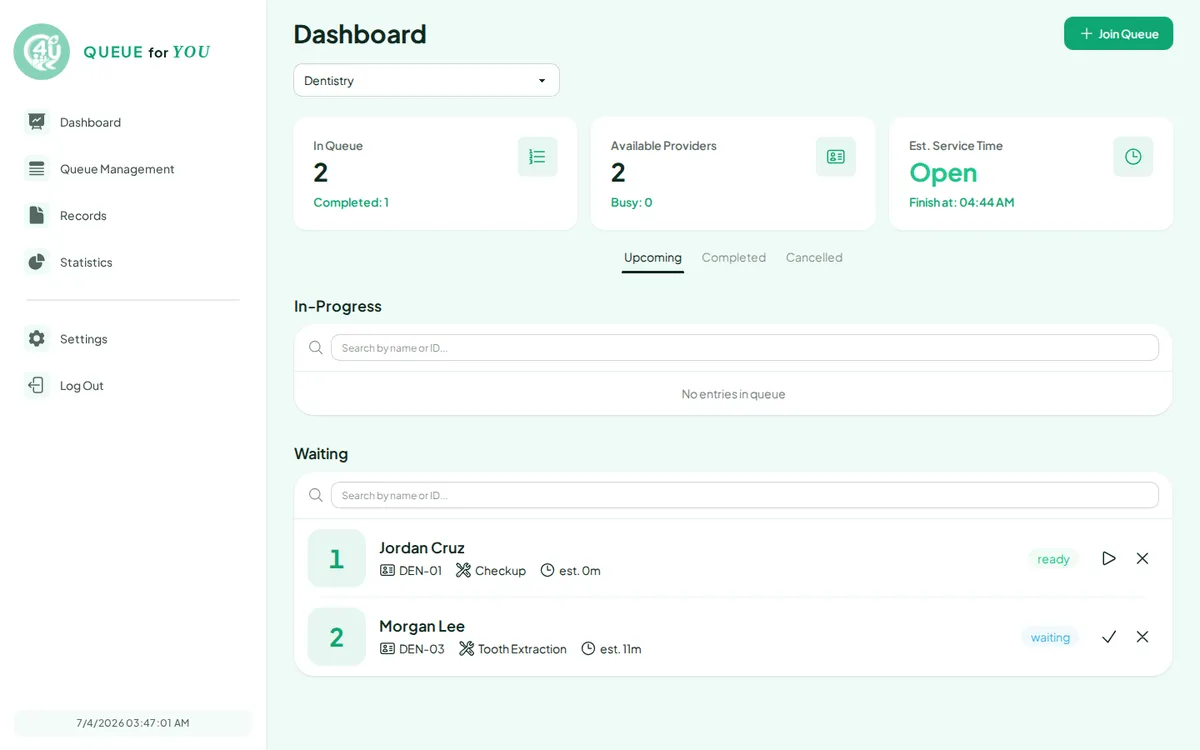
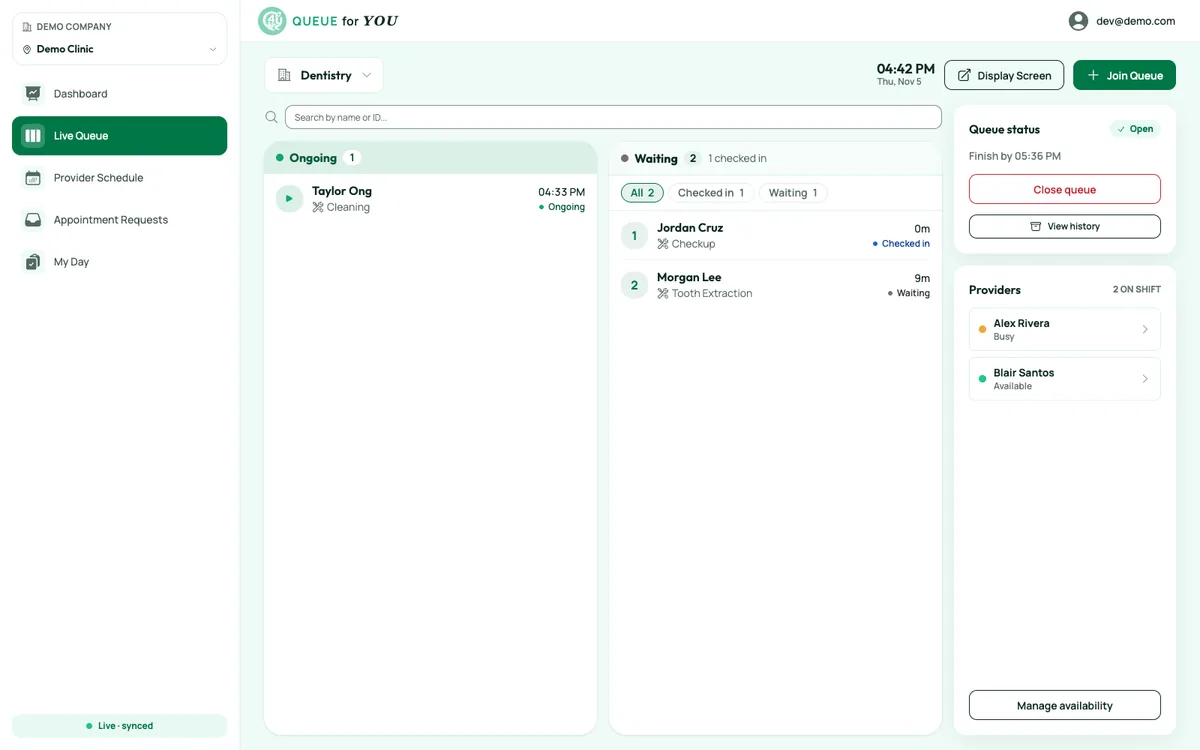
Update queue system pictures and let each card picture set its own frame
The queue card now shows the recoloured staff dashboard, the display screen
and the patient status screen, with the status screen in a phone frame.
A card picture can set its own kind (phone or web), falling back to the
project's screenshotKind, so one carousel can mix both. The join screen
picture is removed.

diff --git a/content.py b/content.py
@@ -142,8 +142,9 @@ def card_images(owner, meta):
     """The card screenshots for a case study or Lab tool, checked so a card can't ship without one.
 
     `owner` names the file in error messages. `meta` holds `cardImages`, a list of
-    {image, alt} (the first is the cover; paths look like assets/uploads/<file>), and
-    `screenshotKind`: "phone" or "web", the same for every picture of one project.
+    {image, alt, kind?} (the first is the cover; paths look like assets/uploads/<file>)
+    and `screenshotKind`: "phone" or "web", the default for every picture. A picture can
+    set its own `kind`, so one carousel can mix web pages and phone screens.
     """
     items = meta.get("cardImages") or []
     if not isinstance(items, list) or not items:
@@ -162,7 +163,10 @@ def card_images(owner, meta):
         alt = str(item.get("alt") or "").strip()
         if not alt:
             raise SystemExit(f"{owner}: describe card image {n} in its 'alt' text (for screen readers)")
-        images.append({"src": path, "alt": alt})
+        own = item.get("kind") or kind
+        if own not in SCREENSHOT_KINDS:
+            raise SystemExit(f"{owner}: card image {n} 'kind' must be one of {', '.join(SCREENSHOT_KINDS)}")
+        images.append({"src": path, "alt": alt, "kind": own})
     return {"kind": kind, "images": images}
 
 
@@ -229,11 +233,14 @@ def card_media(media):
     With more than one picture the slides sit side by side and js/site.js scrolls
     between them. The arrows and dots sit above the card's click area (see style.css),
     so they work while the rest of the card still opens the project.
+
+    Each picture is framed by its own `kind`. The card's `is-<kind>` class follows the
+    cover (the first picture).
     """
-    kind, images = media["kind"], media["images"]
-    frame = "device" if kind == "phone" else "framed"
+    images = media["images"]
+    kind = images[0]["kind"]
     slides = "".join(
-        f'<div class="media-slide"><div class="{frame}">'
+        f'<div class="media-slide"><div class="{"device" if i["kind"] == "phone" else "framed"}">'
         f'<img src="{{{{ROOT}}}}{esc(i["src"])}" alt="{esc(i["alt"])}" loading="lazy" decoding="async">'
         "</div></div>"
         for i in images
@@ -367,7 +374,7 @@ def showcase(specs):
             items = "".join(
                 '<li><button type="button" class="showcase-thumb" '
                 f'aria-label="Show {esc(s["title"])}">'
-                f'{card_media({"kind": s["media"]["kind"], "images": s["media"]["images"][:1]})}'
+                f'{card_media({"images": s["media"]["images"][:1]})}'
                 f'<span>{esc(s["title"])}</span></button></li>'
                 for s in shown
             )

diff --git a/DESIGN.md b/DESIGN.md
@@ -68,7 +68,7 @@ Use `<main>` (900px) for grids and hubs, and `<main class="narrow">` (760px) for
 | Page heading + intro | `<h1>` then `<p class="tagline">` | Used on hub pages |
 | Card grid | `<div class="card-grid">` | Auto-fits columns, minimum 260px |
 | Project card | `.card.project-card` > `.card-media` (case studies and tools only) and `.card-body` > `.card-head` (type label left, small `.card-link`s right), `h3`, `.card-tags`, `.card-hook`, `.card-actions` (one `.pill.primary`) | The one card for every project and Lab tool, generated by `content.project_card`. Don't hand-write cards; change that function. The main button's `::after` stretches over the whole card, so the card is one link and card text can't be drag-selected |
-| Card pictures | `.card-media.is-web` or `.is-phone` > `.media-track` > `.media-slide` > `.framed` or `.device` > `img`; with more than one picture, also `.media-nav` (prev, next) and `.media-dots` | First child of a case study or Lab tool card, drawn by `content.card_media`. A 16:10 box tinted with `--media-tint` so cards in a row stay level. Web: the page with rounded corners and a shadow. Phone: the whole screen in a thin bezel. The track sits under the card's click area, so a click on the picture opens the project; the arrows and dots sit above it (`z-index: 1`). `js/site.js` scrolls the track. Pop-up write-ups have none |
+| Card pictures | `.card-media.is-web` or `.is-phone` > `.media-track` > `.media-slide` > `.framed` or `.device` > `img`; with more than one picture, also `.media-nav` (prev, next) and `.media-dots` | First child of a case study or Lab tool card, drawn by `content.card_media`. Each picture is framed by its own `kind` (falling back to the project's `screenshotKind`), so one carousel can mix web and phone slides; the `is-web` or `is-phone` class follows the cover. A 16:10 box tinted with `--media-tint` so cards in a row stay level. Web: the page with rounded corners and a shadow. Phone: the whole screen in a thin bezel. The track sits under the card's click area, so a click on the picture opens the project; the arrows and dots sit above it (`z-index: 1`). `js/site.js` scrolls the track. Pop-up write-ups have none |
 | Quiet card | `.project-card.is-quiet` | Write-ups, wherever they appear: no fill, outlined button, smaller summary |
 | Card type label | `<span class="card-type">Case study</span>`; `.neutral` for an outlined label | In the card head. Case studies, Tool (or the Lab `type`) and Write-up |
 | Card grid | `.card-grid` | Columns follow the card count: 1, 2 and 4 cards use 2 columns, 3, 5 and more use 3. Two columns below 760px, one below 560px |

diff --git a/content/projects/queue-system.md b/content/projects/queue-system.md
@@ -10,7 +10,12 @@ demoNote: (seeded with demo data)
 screenshotKind: web
 cardImages:
   - image: assets/uploads/queue-system-1.webp
-    alt: Staff dashboard for a dentistry clinic's queue, showing two patients waiting with their estimated wait times
+    alt: Staff dashboard for a dentistry clinic's queue, with one patient ongoing, two waiting and the providers on shift
+  - image: assets/uploads/queue-system-display.webp
+    alt: The waiting-room display screen, listing queue numbers DEN-01 and DEN-03 with their estimated waits and a QR code to join from a phone
+  - image: assets/uploads/queue-system-status.webp
+    alt: A patient's queue status on a phone, showing their number DEN-05, third in line and an estimated wait of 24 minutes
+    kind: phone
 featured: true
 visible: true
 order: 2
@@ -35,11 +40,7 @@ I thought people could have information specific to themselves: where they are i
 
 <div class="shots">
   <figure>
-    <img src="assets/uploads/queue-system-join.webp" alt="The public queue join screen for a dentistry clinic, with a name field, three services to pick from and a Prefer a specific provider option">
-    <figcaption>Joining takes a name and what you need, with the option to ask for a provider you know.</figcaption>
-  </figure>
-  <figure>
-    <img src="assets/uploads/queue-system-status.webp" alt="A patient's queue status screen showing their number, DEN-05, their position in line as third with two people ahead, and an estimated wait of 24 minutes">
+    <img src="assets/uploads/queue-system-status.webp" alt="A patient's queue status screen showing their number, DEN-05, their position in line as third, and an estimated wait of 24 minutes">
     <figcaption>Your number, your place in line and your estimated wait.</figcaption>
   </figure>
 </div>
@@ -54,8 +55,8 @@ I thought people could have information specific to themselves: where they are i
 
 <div class="shots shots-wide">
   <figure>
-    <img src="assets/uploads/queue-system-1.webp" alt="Staff dashboard for a dentistry clinic's queue, showing two patients waiting with their estimated wait times">
-    <figcaption>The staff side: a clinic's queue, with each patient's estimated wait.</figcaption>
+    <img src="assets/uploads/queue-system-1.webp" alt="Staff dashboard for a dentistry clinic's queue, with one patient ongoing, two waiting and the providers on shift">
+    <figcaption>The staff side: a clinic's queue, who's being seen, who's waiting and which providers are on shift.</figcaption>
   </figure>
 </div>
 

diff --git a/CONTENT.md b/CONTENT.md
@@ -137,7 +137,7 @@ Every case study and every Lab tool needs at least one picture, and shows up to 
 2. **Save each as WebP**, about 1200px wide for web and 450px wide for phone apps, under about 150 KB. The build doesn't compress anything.
 3. **Upload them** in the CMS (**Card pictures** on the project or Lab tool), or put the files in `site-src/assets/uploads/`.
 4. **Describe each picture** in its alt text, as someone who can't see it would want it described. The build fails if one is empty.
-5. **Set the screenshot kind**: *Web page or desktop app*, or *Phone app*. It's the same for every picture of one project.
+5. **Set the screenshot kind**: *Web page or desktop app*, or *Phone app*. It's the default for every picture of one project. If one project has both (a web dashboard and a phone screen), leave the default for most and set **Kind** on the odd ones out. Each picture is framed by its own kind.
 
 In the file, it looks like this:
 
@@ -146,6 +146,18 @@ screenshotKind: phone
 cardImages:
   - image: assets/uploads/pa-ride-1.webp
     alt: The home screen with a search bar and a Post button
+```
+
+A project that mixes both sets `kind` on the pictures that differ:
+
+```yaml
+screenshotKind: web
+cardImages:
+  - image: assets/uploads/queue-system-1.webp
+    alt: The staff dashboard
+  - image: assets/uploads/queue-system-status.webp
+    alt: A patient's queue status on a phone
+    kind: phone
 ```
 
 **Asking Claude to suggest them.** When you ask Claude to add a project or tool, it captures several candidate screenshots from the live demo (or from a video you point it at) and shows them for you to choose from. The ones you pick go in the card. The ones you don't are kept in `design-input/screenshots/<project>/` on your machine. That folder is git-ignored, so it is neither published nor committed.

diff --git a/LAB.md b/LAB.md
@@ -276,8 +276,8 @@ The same goes for the back link: from `/lab/telemetry/`, `../` is `/lab/`. The t
 | `build` | no | Shell command run in a fresh checkout (e.g. `"npm ci && npm run build"`). Leave out for plain HTML. |
 | `output` | no | Folder inside the repo to publish. Defaults to `"."` (everything), so set it, e.g. `"web"`. It must contain `index.html`. |
 | `sourceUrl` | no | Link for the card's "Source" link. Defaults to the GitHub repo when `repo` is set. Set to `""` to hide the link, for a private repo. (Pages CMS can't save an empty value; edit `lab-tools.json` directly.) |
-| `screenshotKind` | yes | `"web"` or `"phone"`. How the card shows the pictures: a framed page, or a whole phone screen. Same for every picture. |
-| `cardImages` | yes | List of `{ "image", "alt" }`, one to five. The first is the cover; more get arrows and dots. See [Add card pictures](CONTENT.md#add-card-pictures). |
+| `screenshotKind` | yes | `"web"` or `"phone"`. How the card shows the pictures: a framed page, or a whole phone screen. The default for every picture. |
+| `cardImages` | yes | List of `{ "image", "alt" }`, one to five. Add `"kind": "web"` or `"phone"` to a picture that differs from `screenshotKind`. The first is the cover; more get arrows and dots. See [Add card pictures](CONTENT.md#add-card-pictures). |
 | `card` | no | `false` publishes the page but adds no card to the Projects page, and `description` and the card pictures aren't needed. For a [demo entry page](#putting-a-project-on-the-portfolio). Defaults to `true`. |
 | `enabled` | no | `false` skips the tool entirely. Defaults to `true`. |
 
